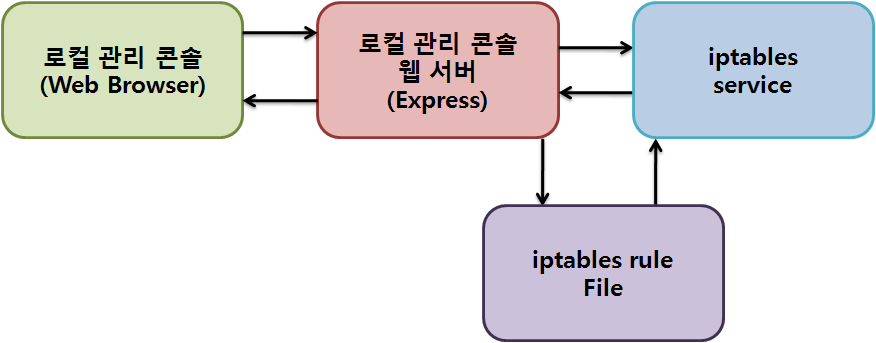
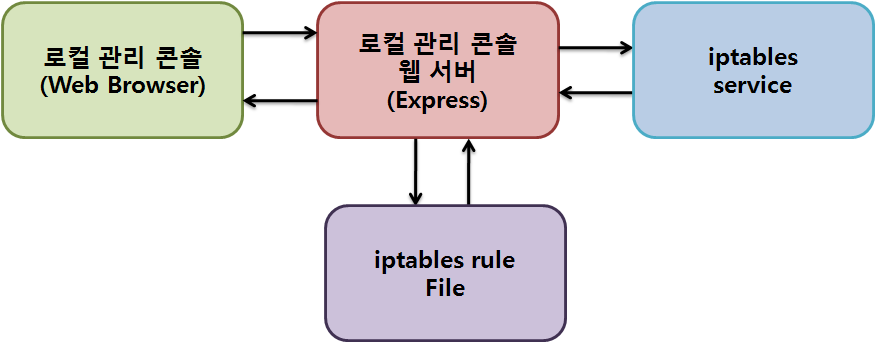
그림 수정

Changed region(s): [[0.3699, 0.4082, 0.8322, 1.0]]

diff --git a/시스템설계서/4장-관제_시스템.rst b/시스템설계서/4장-관제_시스템.rst
@@ -261,7 +261,7 @@
    :alt: alternate text
 
 - iptables 서비스는 전달받은 설정 및 요청을 수행하고 로컬 관리 웹 서버에 결과를 전달한다.
-- 로컬관리 웹 서버는 iptables 서비스에 요청한 결과를 iptables rule file에 저장한다.
+- 로컬관리 웹 서버는 iptables 서비스에 현재 적용된 rule을 iptables rule file에 저장한다.
 - 로컬관리 웹 브라우저는 Restful API를 사용하여 로컬관리 웹 서버에 요청한다.
 - 로컬관리 웹 서버는 로컬관리 인터페이스를 제공한다.
 - 로컬관리 웹 서버는 전달받은 요청 결과를 로컬관리 웹 브라우저에 전달한다.
@@ -287,7 +287,7 @@
    :alt: alternate text
 
 - iptables 서비스는 전달받은 설정 및 요청을 수행하고 로컬 관리 웹 서버에 결과를 전달한다.
-- 로컬관리 웹 서버는 iptables 서비스에 요청한 결과를 iptables rule file에 저장한다.
+- 로컬관리 웹 서버는 iptables 서비스에 현재 적용된 rule을 iptables rule file에 저장한다.
 - 로컬관리 웹 브라우저는 Restful API를 사용하여 로컬관리 웹 서버에 요청한다.
 - 로컬관리 웹 서버는 로컬관리 인터페이스를 제공한다.
 - 로컬관리 웹 서버는 전달받은 요청 결과를 로컬관리 웹 브라우저에 전달한다.
